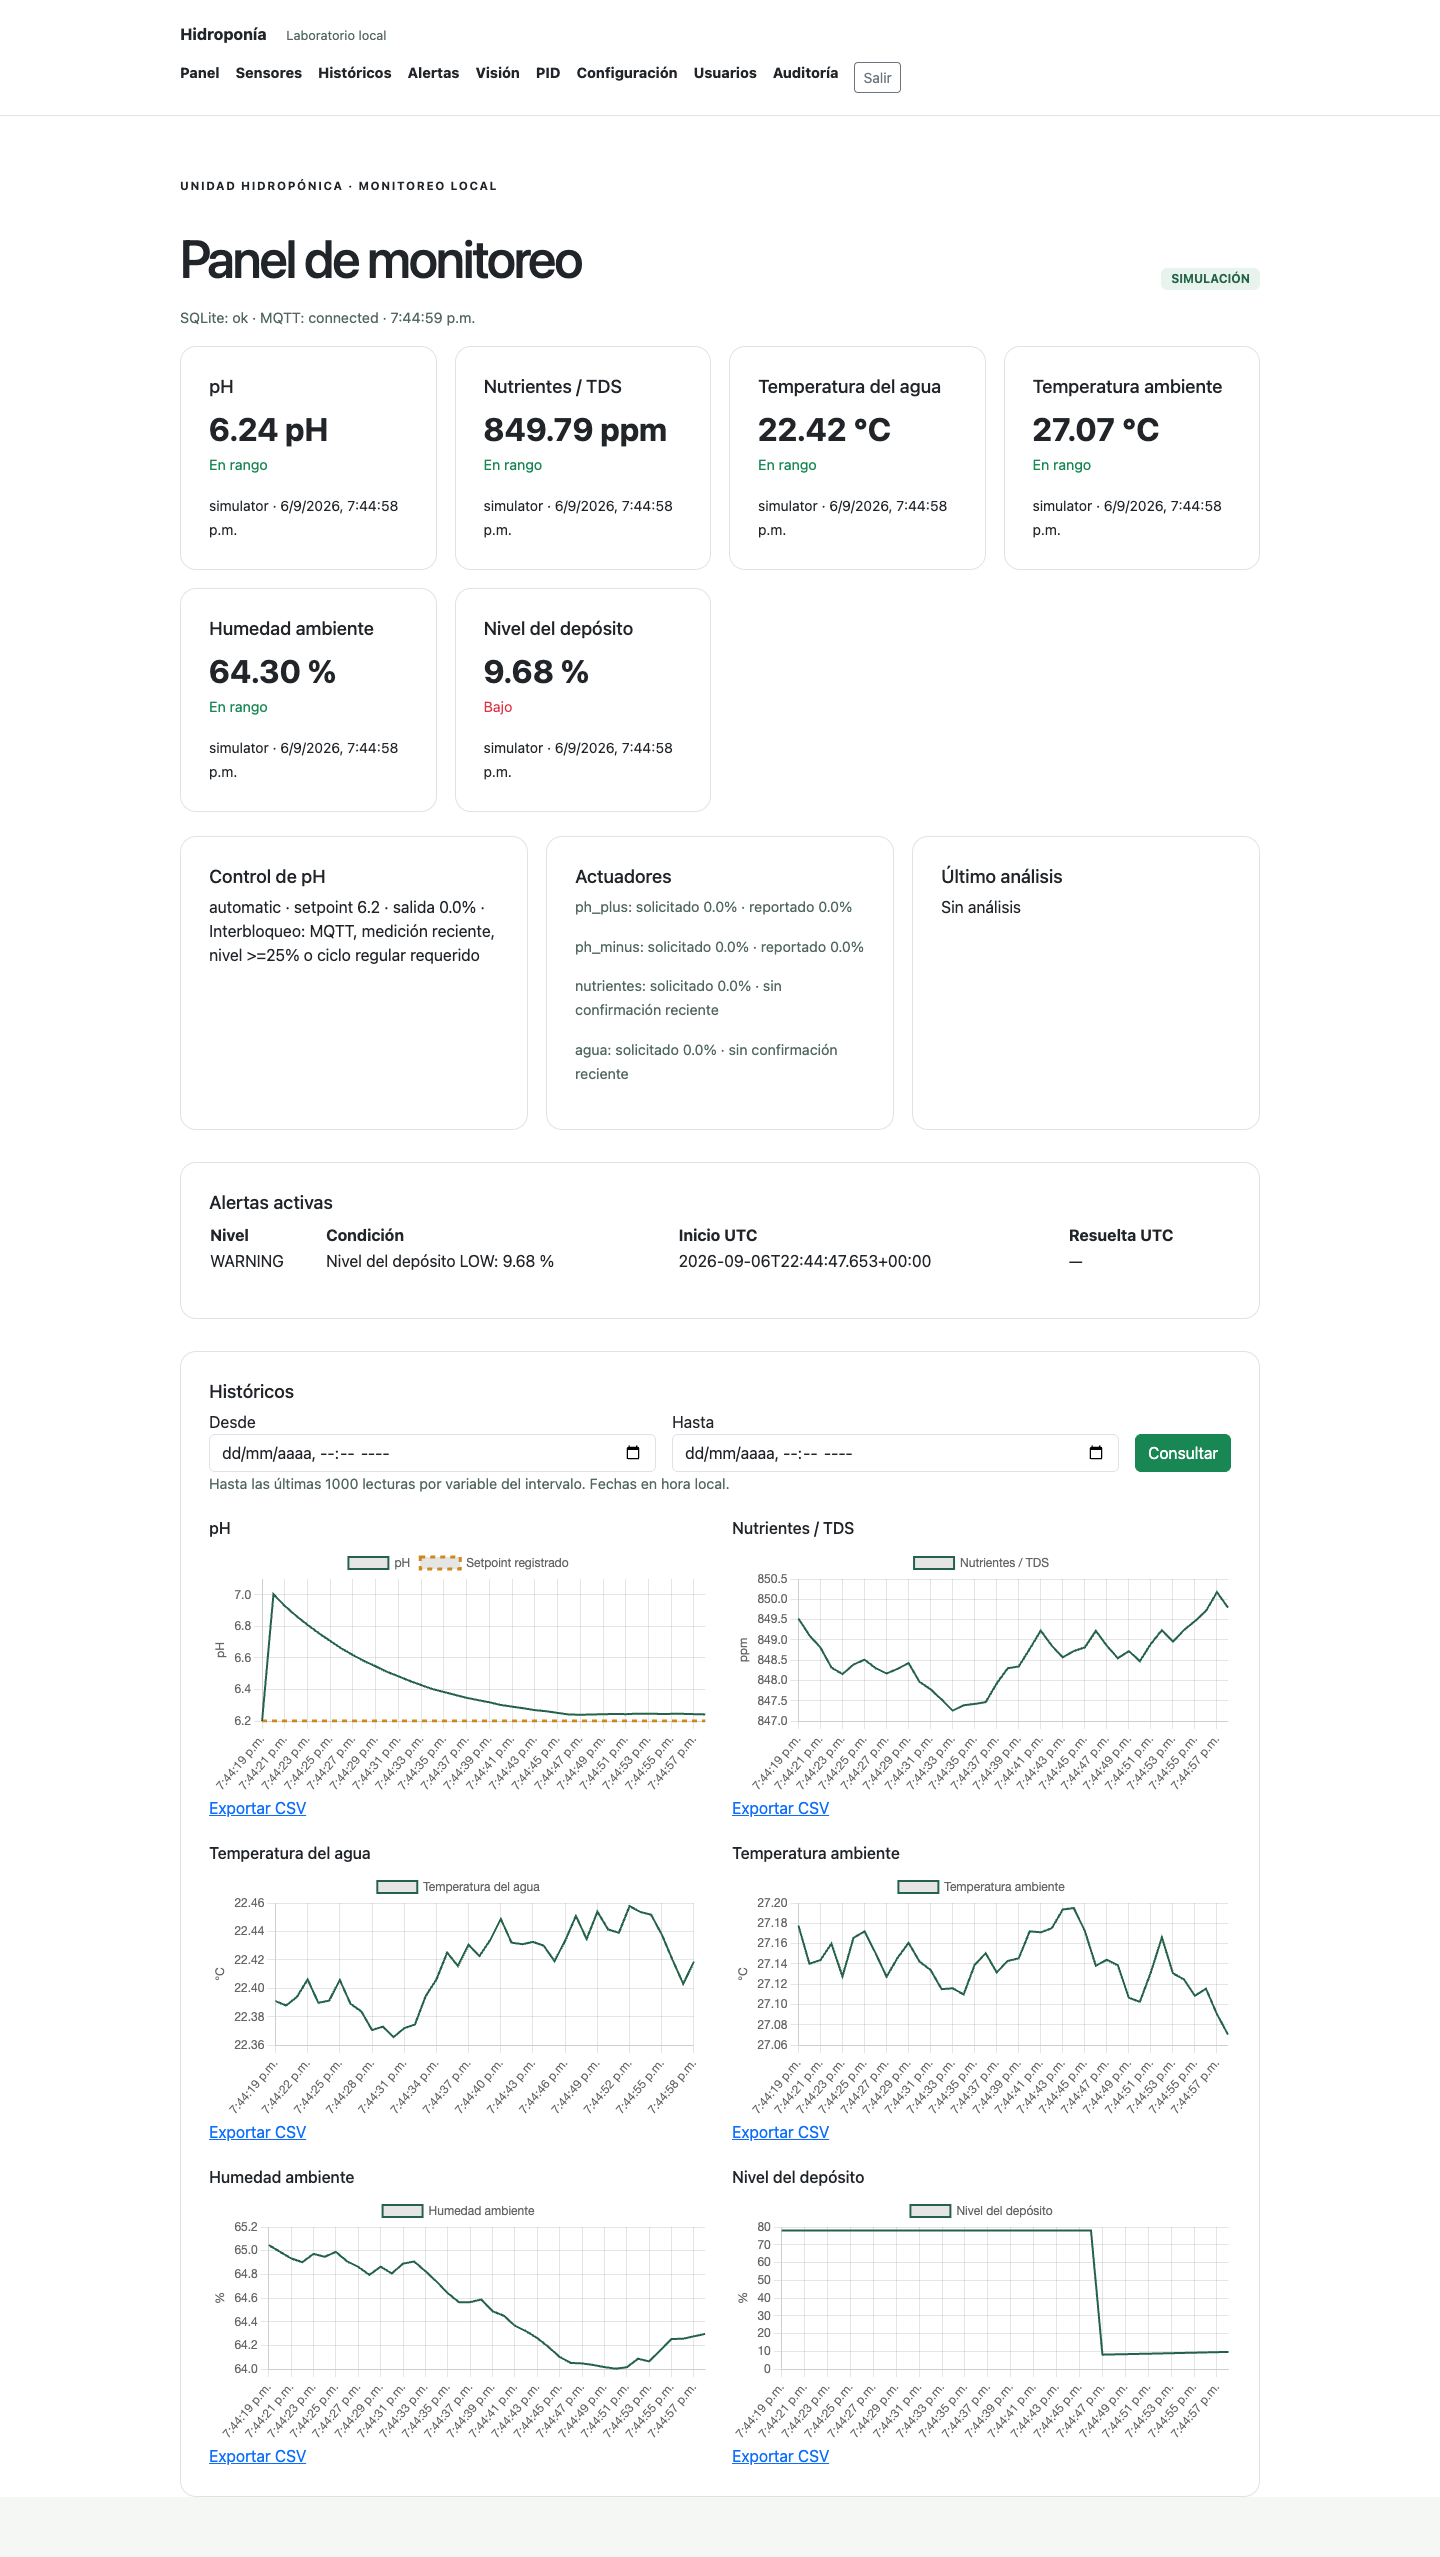
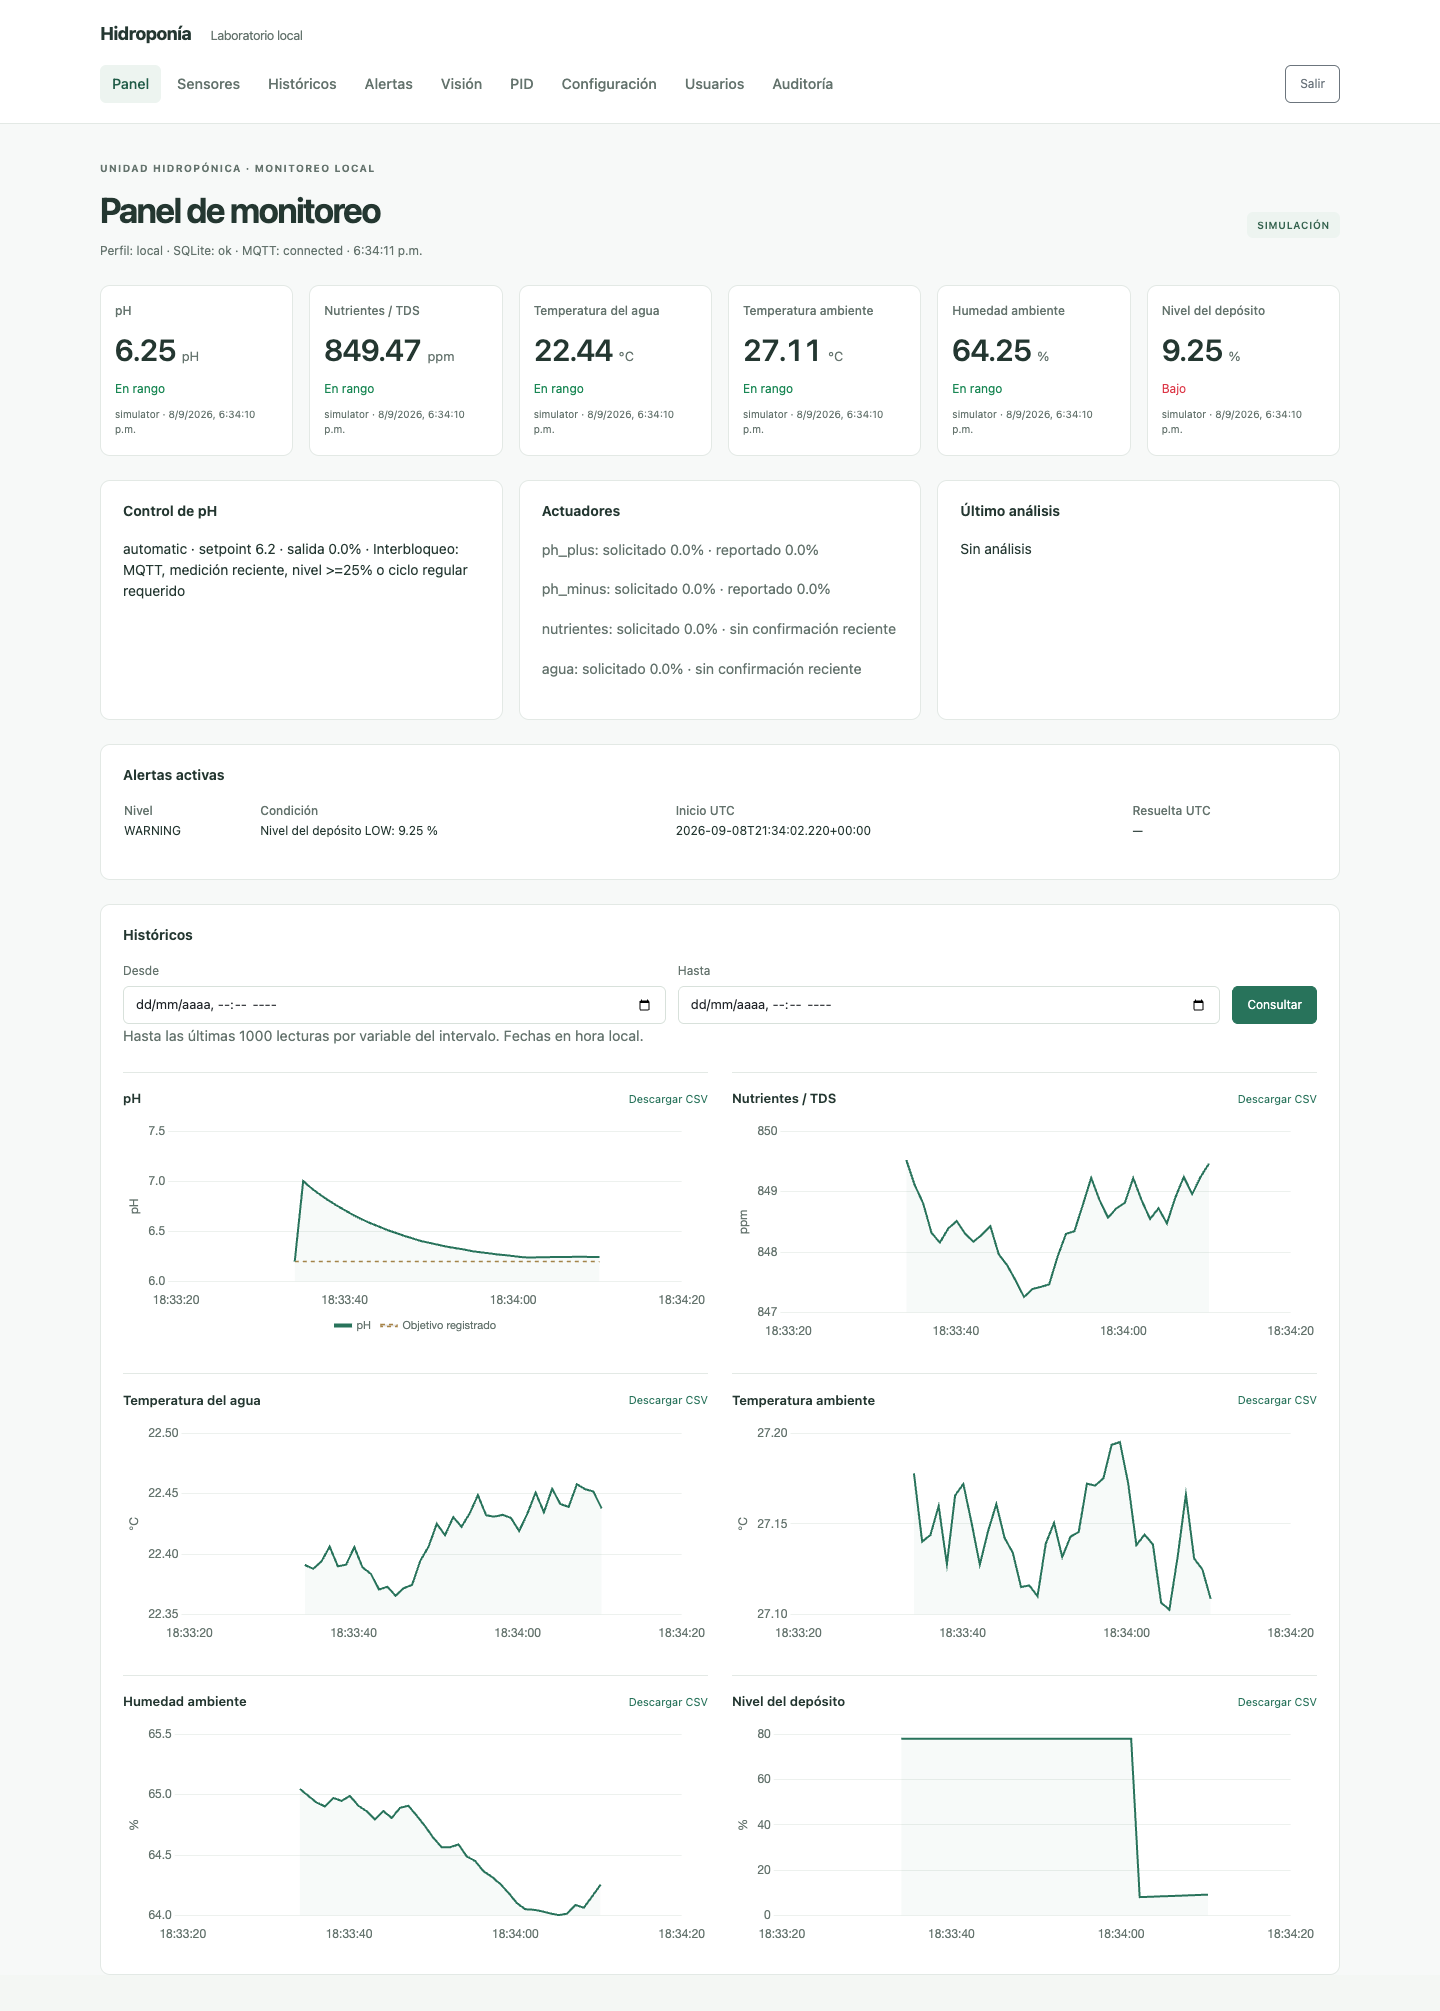
feat: simplificar interfaz y mejorar graficos de monitoreo

diff --git a/app/static/js/system.js b/app/static/js/system.js
@@ -33,7 +33,7 @@ async function controlStatus(fill=false) {
 async function cards() {
   if(!$('sensor-cards')) return;
   const rows=await api('/api/sensors/latest'); $('sensor-cards').replaceChildren();
-  rows.forEach(r=>{const card=node('article',''); card.append(node('h2',r.label)); card.append(node('strong',r.value===null?'—':`${Number(r.value).toFixed(2)} ${r.unit}`,'reading'));
+  rows.forEach(r=>{const card=node('article',''); card.append(node('h2',r.label)); const reading=node('strong',r.value===null?'—':Number(r.value).toFixed(2),'reading'); reading.append(node('small',r.unit)); card.append(reading);
     const stale=r.value===null || Date.now()-Date.parse(r.measured_at)>5000;
     card.append(node('p',stale?'Sin lectura reciente':r.value<r.minimum?'Bajo':r.value>r.maximum?'Alto':'En rango',stale?'text-secondary':r.value<r.minimum||r.value>r.maximum?'text-danger':'text-success'));
     card.append(node('small',`${r.source||'Sin origen'} · ${date(r.measured_at)}`)); $('sensor-cards').append(card);});
@@ -46,11 +46,30 @@ async function histories() {
   const all=await Promise.all(types.map(t=>api(`/api/sensors/history/${t.variable}?${params}`)));
   let events=[]; try { events=await api('/api/control/events'); } catch(e) { /* history remains usable without control */ }
   types.forEach((type,i)=>{ const rows=all[i]; let chart=charts[type.variable];
-    if(!chart) { const box=node('div','','chart-box'); box.append(node('h3',type.label)); const canvas=document.createElement('canvas'); canvas.setAttribute('aria-label',`${type.label} vs tiempo`); canvas.setAttribute('role','img'); box.append(canvas); const link=node('a','Exportar CSV'); link.id=`csv-${type.variable}`; box.append(link); $('charts').append(box); chart=new Chart(canvas,{type:'line',data:{labels:[],datasets:[]},options:{animation:false,responsive:true,scales:{y:{title:{display:true,text:type.unit}}},plugins:{legend:{display:true}}}}); charts[type.variable]=chart; }
+    if(!chart) {
+      const box=node('div','','chart-box');
+      const heading=node('div','','chart-heading'); heading.append(node('h3',type.label));
+      const link=node('a','Descargar CSV'); link.id=`csv-${type.variable}`; link.setAttribute('aria-label',`Descargar CSV de ${type.label}`); heading.append(link); box.append(heading);
+      const frame=node('div','','chart-canvas'); const canvas=document.createElement('canvas');
+      canvas.setAttribute('aria-label',`${type.label} a lo largo del tiempo, en ${type.unit}`); canvas.setAttribute('role','img'); frame.append(canvas); box.append(frame);
+      const empty=node('p','','chart-empty'); empty.id=`empty-${type.variable}`; box.append(empty); $('charts').append(box);
+      chart=new Chart(canvas,{type:'line',data:{datasets:[]},options:{
+        animation:false,responsive:true,maintainAspectRatio:false,parsing:false,
+        interaction:{mode:'index',intersect:false},
+        scales:{x:{type:'linear',grid:{display:false},border:{display:false},ticks:{color:'#64736d',maxTicksLimit:5,maxRotation:0,callback:function(value){const span=this.max-this.min; const d=new Date(value); return span>=86400000?d.toLocaleDateString([], {day:'2-digit',month:'2-digit'}):d.toLocaleTimeString([], {hour:'2-digit',minute:'2-digit',...(span<300000?{second:'2-digit'}:{}),hour12:false});}}},
+          y:{border:{display:false},grid:{color:'#edf1ee'},ticks:{color:'#64736d',maxTicksLimit:5},title:{display:!!type.unit,text:type.unit,color:'#64736d'}}},
+        plugins:{legend:{display:type.variable==='ph',position:'bottom',labels:{boxWidth:16,boxHeight:2,color:'#64736d',font:{size:11}}},
+          tooltip:{backgroundColor:'#243731',padding:12,displayColors:false,callbacks:{title:items=>items.length?date(items[0].parsed.x):'',label:item=>`${item.dataset.label}: ${Number(item.parsed.y).toFixed(2)} ${type.unit}`}}}
+      }}); charts[type.variable]=chart;
+    }
     $(`csv-${type.variable}`).href=`/api/sensors/history/${type.variable}?${params}&format=csv`;
-    chart.data.labels=rows.map(r=>new Date(r.measured_at).toLocaleTimeString());
-    chart.data.datasets=[{label:type.label,data:rows.map(r=>r.value),borderColor:'#246249',pointRadius:0,borderWidth:2}];
-    if(type.variable==='ph') { chart.data.datasets.push({label:'Setpoint registrado',data:rows.map(r=>{const e=events.find(e=>e.timestamp<=r.measured_at);return e?e.setpoint:null;}),borderColor:'#cf881c',borderDash:[5,5],pointRadius:0}); }
+    const points=rows.map(r=>({x:Date.parse(r.measured_at),y:r.value})).sort((a,b)=>a.x-b.x);
+    $(`empty-${type.variable}`).textContent=points.length?'':'Sin lecturas en este intervalo.';
+    chart.data.datasets=[{label:type.label,data:points,borderColor:'#28735b',backgroundColor:'#28735b0a',fill:true,pointRadius:points.length===1?3:0,pointHitRadius:12,pointHoverRadius:4,borderWidth:2,spanGaps:false}];
+    if(type.variable==='ph') {
+      const ordered=events.slice().sort((a,b)=>Date.parse(b.timestamp)-Date.parse(a.timestamp));
+      chart.data.datasets.push({label:'Objetivo registrado',data:points.map(p=>{const e=ordered.find(e=>Date.parse(e.timestamp)<=p.x);return {x:p.x,y:e?e.setpoint:null};}),borderColor:'#a88448',borderDash:[4,4],pointRadius:0,borderWidth:1.5,stepped:true});
+    }
     chart.update();
   });
 }

diff --git a/app/static/css/app.css b/app/static/css/app.css
@@ -27,3 +27,56 @@ article p, .note { color: #52685e; font-size: .9rem; }
 nav {display:flex;gap:16px;flex-wrap:wrap;margin-top:16px} nav a {font-size:.9rem}
 nav form {display:inline} img {max-width:100%;border-radius:8px;margin-top:12px}
 #metrics {white-space:pre-wrap} .login {max-width:480px;margin:60px auto}
+
+/* Superficie y jerarquía del sistema */
+:root { --ink:#243731; --muted:#64736d; --line:#e3e9e5; --accent:#28735b; }
+body { background:#f7f9f8; color:var(--ink); font-family:system-ui,-apple-system,sans-serif; font-size:14px; }
+header { padding:20px max(24px,calc((100vw - 1240px)/2)); border-color:var(--line); }
+header > a { font-size:18px; letter-spacing:-.5px; }
+header span { color:var(--muted); }
+nav { gap:4px; align-items:center; margin-top:18px; }
+nav a { padding:8px 12px; border-radius:6px; font-weight:500; color:var(--muted); }
+nav a:hover, nav a[aria-current="page"] { background:#edf4f0; color:#205b47; }
+nav form { margin-left:auto; }
+main { max-width:1288px; margin:36px auto; }
+h1 { font-size:clamp(1.65rem,3vw,2.2rem); font-weight:650; letter-spacing:-.045em; margin:0 0 10px; }
+h2 { font-size:14px; font-weight:650; margin-bottom:18px; }
+h3 { font-size:15px; }
+.eyebrow { color:var(--muted); font-size:10px; letter-spacing:.13em; margin-bottom:12px; }
+.heading { margin-bottom:24px; }
+.heading .note { margin:0; font-size:12px; }
+.badge { background:#edf4f0; color:#35634f; font-size:10px; letter-spacing:.07em; font-weight:600; padding:8px 10px; }
+.panel, article { border:1px solid var(--line); border-radius:10px; padding:22px; box-shadow:none; }
+.panel { margin:24px 0; }
+.grid { gap:16px; }
+#sensor-cards { grid-template-columns:repeat(3,minmax(0,1fr)); }
+#sensor-cards h2 { color:var(--muted); margin-bottom:12px; font-size:12px; font-weight:500; }
+.reading { font-size:30px; font-weight:550; letter-spacing:-1px; line-height:1.3; font-variant-numeric:tabular-nums; }
+.reading small { font-size:13px; font-weight:400; letter-spacing:0; margin-left:6px; color:var(--muted); }
+#sensor-cards p { margin:10px 0 8px; font-size:12px; }
+#sensor-cards > article > small { display:block; color:var(--muted); font-size:10px; }
+.note, article p { color:var(--muted); }
+.form-grid { gap:12px; }
+.form-grid label { font-size:12px; color:var(--muted); }
+.form-control,.form-select { margin-top:6px; font-size:13px; border-color:#d8e1db; border-radius:6px; min-height:38px; }
+.form-control:focus,.form-select:focus { border-color:var(--accent); box-shadow:0 0 0 3px #28735b18; }
+.btn { font-size:12px; padding:9px 14px; border-radius:6px; }
+.btn-success { --bs-btn-bg:#28735b; --bs-btn-border-color:#28735b; --bs-btn-hover-bg:#205d49; --bs-btn-hover-border-color:#205d49; }
+a { color:var(--accent); }
+:focus-visible { outline:2px solid var(--accent); outline-offset:3px; }
+.chart-grid { gap:24px; grid-template-columns:repeat(2,minmax(0,1fr)); }
+.chart-box { padding:18px 0 0; border-top:1px solid var(--line); }
+.chart-heading { display:flex; justify-content:space-between; align-items:center; gap:12px; margin-bottom:14px; }
+.chart-heading h3 { margin:0; font-size:13px; font-weight:600; }
+.chart-heading a { font-size:11px; text-decoration:none; }
+.chart-heading a:hover { text-decoration:underline; }
+.chart-canvas { position:relative; height:220px; }
+.chart-empty { color:var(--muted); font-size:12px; margin:8px 0 0; }
+.table { font-size:12px; --bs-table-bg:transparent; --bs-table-border-color:var(--line); }
+.table th { font-weight:500; color:var(--muted); white-space:nowrap; }
+.table > :not(caption) > * > * { padding:12px 8px; }
+#vision-summary img { max-height:160px; width:100%; object-fit:contain; }
+#metrics { font-size:12px; overflow-wrap:anywhere; }
+.login h1 { font-size:28px; }
+@media(min-width:1200px) { #sensor-cards { grid-template-columns:repeat(6,minmax(0,1fr)); } #sensor-cards article { padding:18px 14px; } }
+@media(max-width:640px) { main { padding:0 16px; margin:24px auto; } header { padding:16px; } header span { display:none; } nav { gap:2px; } nav a { padding:8px; font-size:12px; } nav form { margin-left:0; } #sensor-cards { grid-template-columns:repeat(2,minmax(0,1fr)); gap:10px; } #sensor-cards article { padding:16px; } .reading { font-size:26px; } .panel { padding:18px; } .chart-grid { grid-template-columns:1fr; } .form-grid label { min-width:100%; } }

diff --git a/app/templates/base.html b/app/templates/base.html
@@ -11,8 +11,8 @@
 <body>
   <header><a href="{{ url_for('dashboard.index_page') }}">Hidroponía <span>Laboratorio local</span></a>
   <nav aria-label="Principal">
-  {% for route,label in [('dashboard','Panel'),('sensors','Sensores'),('history','Históricos'),('alerts','Alertas'),('vision','Visión')] %}<a href="/{{ route }}">{{ label }}</a>{% endfor %}
-  {% if g.user and g.user.role == 'ADMIN' %}{% for route,label in [('control','PID'),('settings','Configuración'),('users','Usuarios'),('audit','Auditoría')] %}<a href="/{{ route }}">{{ label }}</a>{% endfor %}{% endif %}
+  {% for route,label in [('dashboard','Panel'),('sensors','Sensores'),('history','Históricos'),('alerts','Alertas'),('vision','Visión')] %}<a href="/{{ route }}" {% if request.path == "/" + route %}aria-current="page"{% endif %}>{{ label }}</a>{% endfor %}
+  {% if g.user and g.user.role == 'ADMIN' %}{% for route,label in [('control','PID'),('settings','Configuración'),('users','Usuarios'),('audit','Auditoría')] %}<a href="/{{ route }}" {% if request.path == "/" + route %}aria-current="page"{% endif %}>{{ label }}</a>{% endfor %}{% endif %}
   {% if g.user %}<form action="/logout" method="post"><input type="hidden" name="csrf_token" value="{{ session.get('csrf_token','') }}"><button class="btn btn-sm btn-outline-secondary">Salir</button></form>{% endif %}
   </nav></header>
   <main>{% block content %}{% endblock %}</main>
